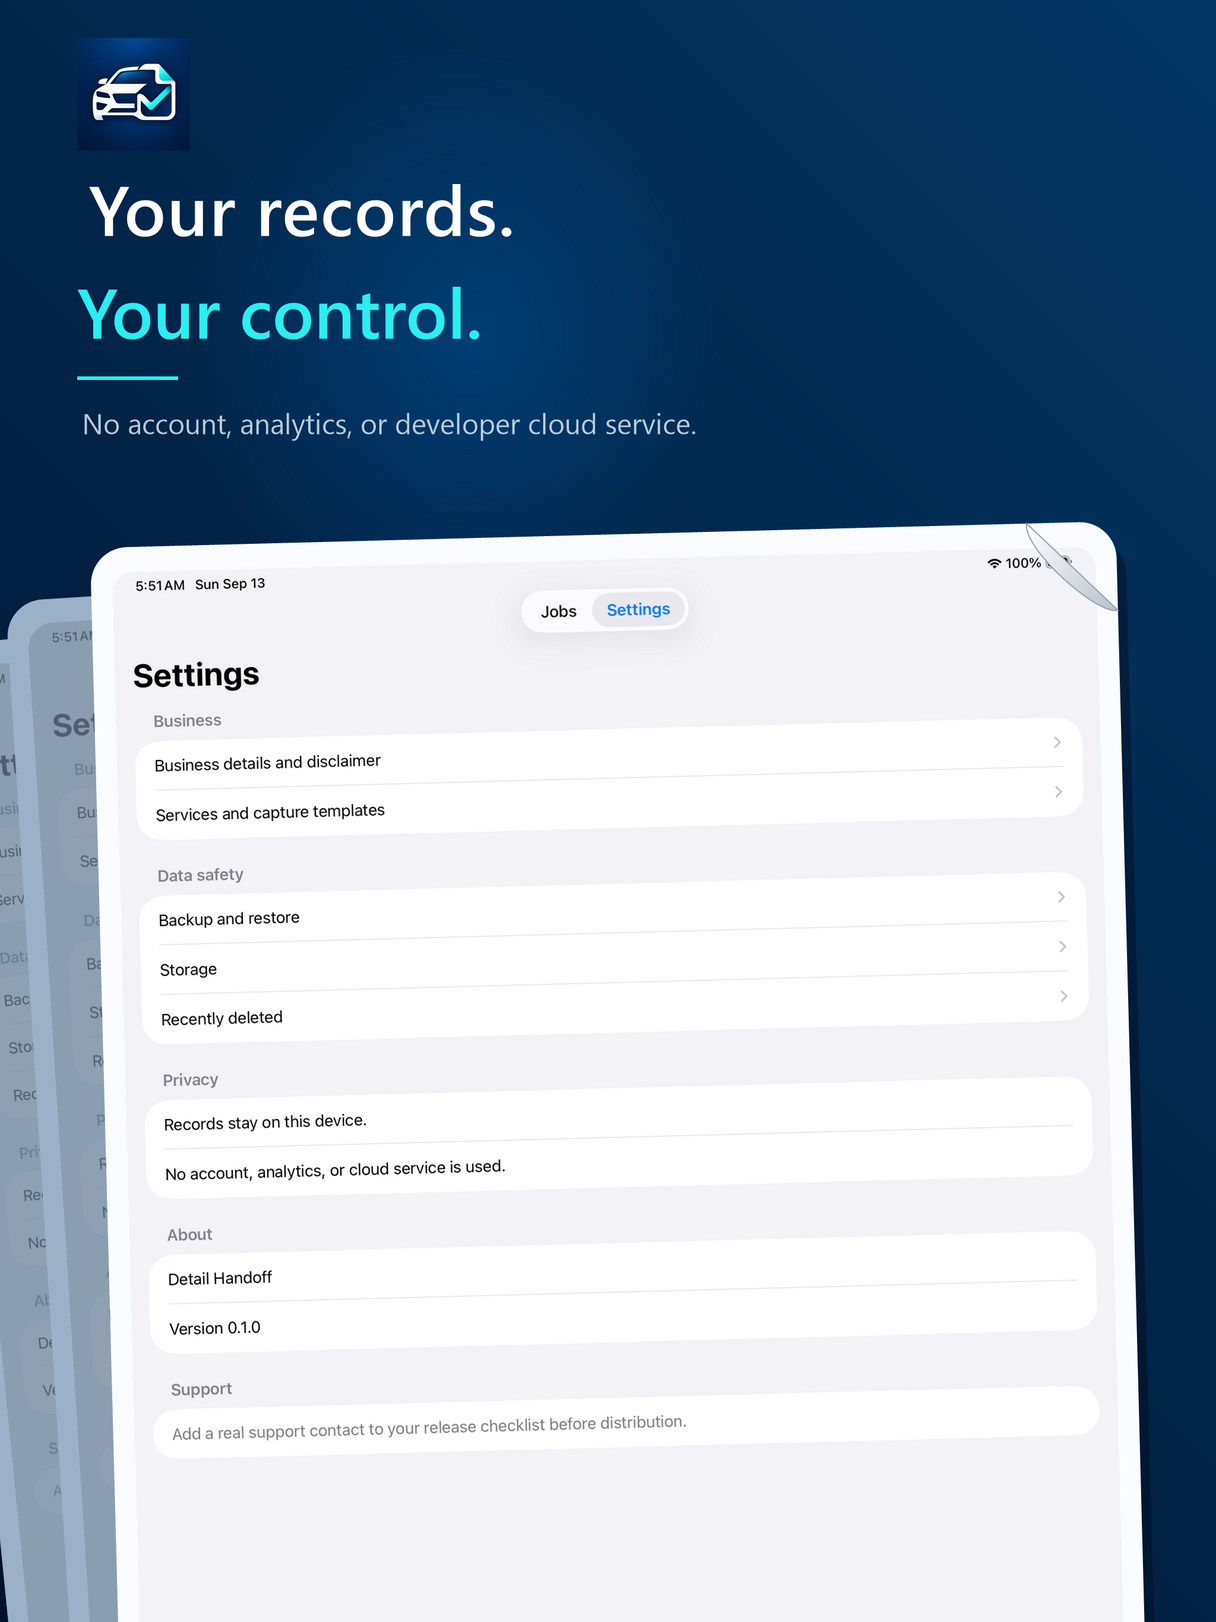
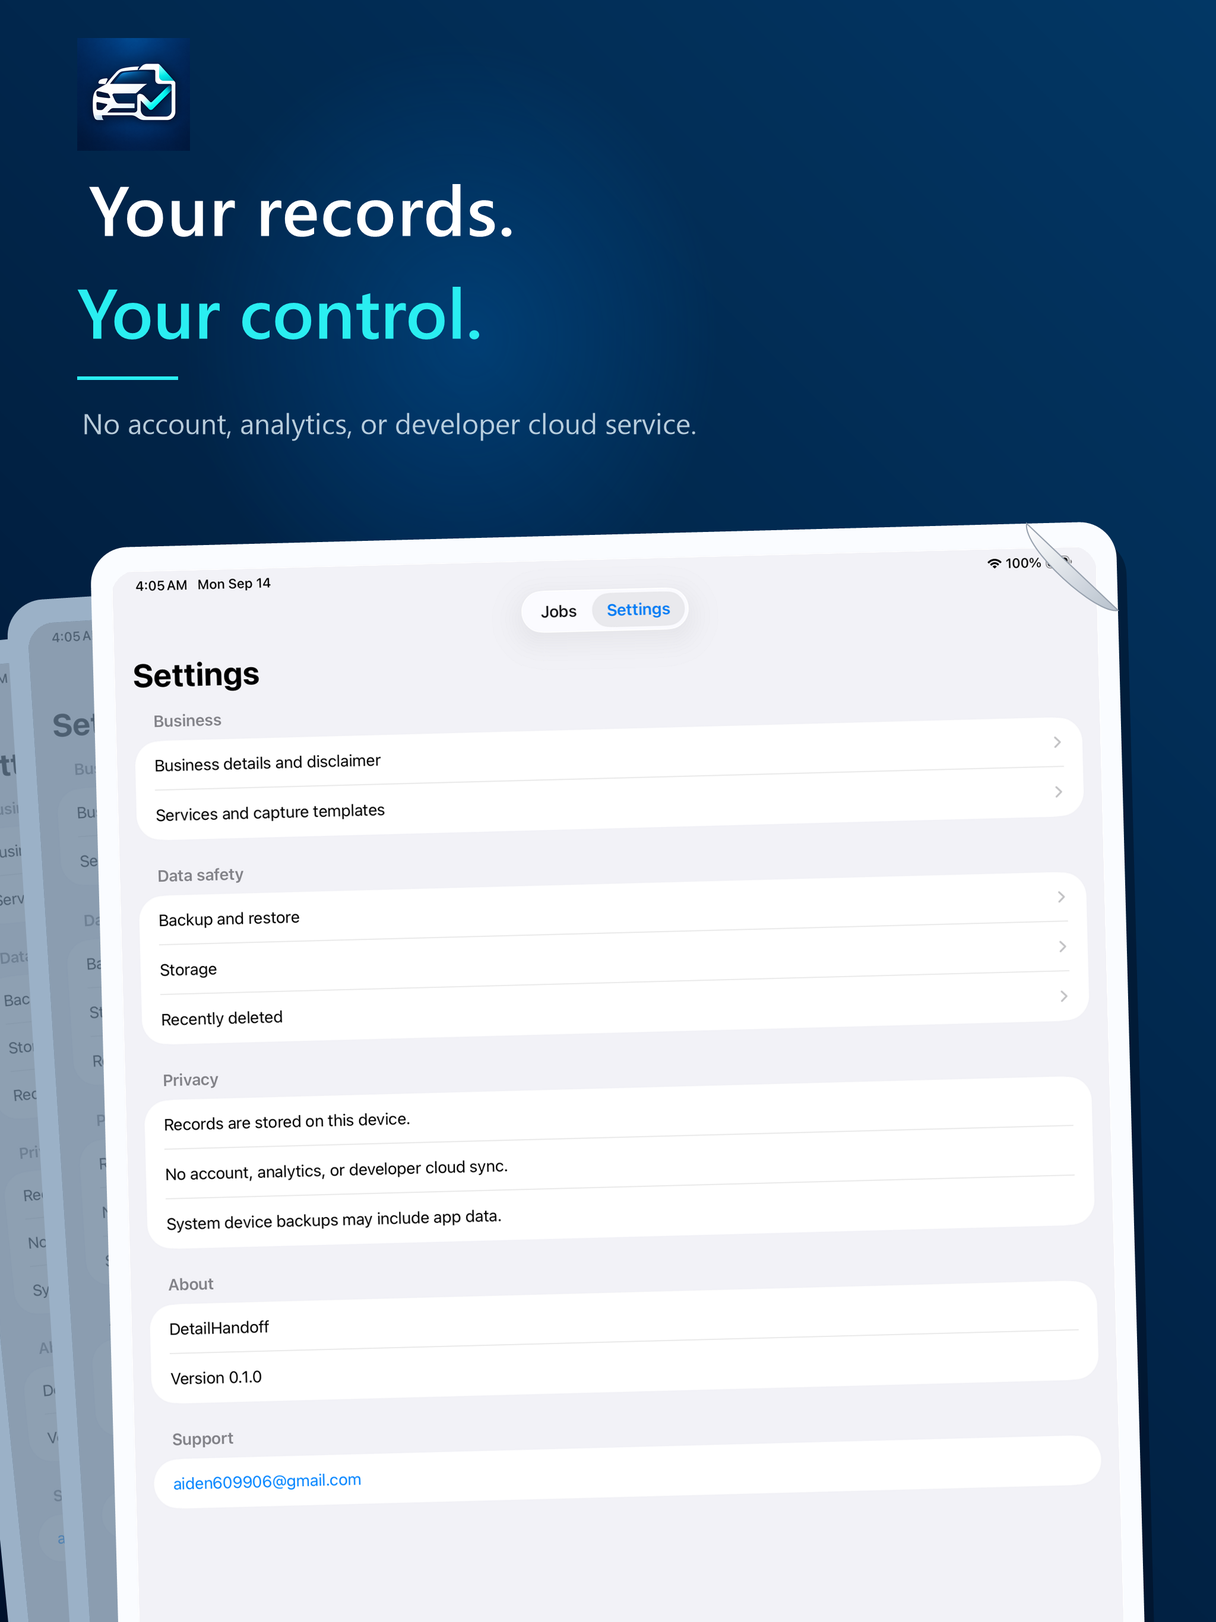
assets: refresh store screenshots from verified CI

diff --git a/docs/release/acceptance.md b/docs/release/acceptance.md
@@ -4,7 +4,7 @@ Last updated: 2026-09-14
 
 ## Release decision
 
-**Automated V1 gate passed on merged `main`; not yet App Store release-ready.** CI `34758132729` built commit `e7d8e05`, passed all 149 unit tests, and passed all 9 UI tests on both the selected iPhone and iPad simulators. The release screenshot set uses exact simulator captures from earlier green CI `34740399131`, not the latest run; see `app-store-assets/README.md` and `pre-membership-audit-2026-09-14.md`. A 1024×1024 opaque app-icon master is referenced by the asset catalog but still requires signed-archive validation. Public support and privacy pages returned HTTP 200 on 2026-09-14. The remaining blockers include physical-device/offline behavior, screenshot corrections, name clearance, signing/archive validation, account-owned metadata, TestFlight, business setup, and App Review.
+**Automated candidate gate passed; not yet App Store release-ready.** CI `34803310219` built code commit `5d901de` on the isolated fix branch, passed all 149 unit tests, and passed all 11 UI tests on both the selected iPhone and iPad simulators. The current 12 draft App Store frames were regenerated from this same run's exact captures; iPad frame 06 visibly replaces the support placeholder with the real email and distinguishes developer cloud sync from system backups. See `app-store-assets/README.md` and `pre-membership-audit-2026-09-14.md`. A 1024×1024 opaque app-icon master still requires signed-archive validation. Public support and privacy pages returned HTTP 200 on 2026-09-14. The remaining blockers include physical-device/offline behavior, final creative approval, name clearance, signing/archive validation, account-owned metadata, TestFlight, business setup, and App Review.
 
 Legend: **PASS** means the named behavior actually ran successfully in the cited run. **SOURCE** means the statement is supported by source inspection but not by the manual or external observation still named in that row. **MANUAL** is an external or physical check that automation cannot establish.
 
@@ -23,6 +23,8 @@ Legend: **PASS** means the named behavior actually ran successfully in the cited
 | [CI 34735856765](https://github.com/aiden609906-sketch/DetailHandoff/actions/runs/34735856765) | `843c46b` | **PASS on merged `main`:** app build; 149/0 unit tests; 9/0 iPhone UI tests; 9/0 iPad UI tests. Destinations: iPhone 17 Pro and iPad Pro 13-inch (M5), iOS 26.5. Test attachments uploaded but not separately inspected in this run. No physical-device or signed-archive claim. |
 | [CI 34740399131](https://github.com/aiden609906-sketch/DetailHandoff/actions/runs/34740399131) | `933cfb2` | **PASS:** source of the exact simulator UI captures used in the 12 draft App Store marketing frames. The derived PNGs are committed under `docs/release/app-store-assets/`; this is not creative approval. |
 | [CI 34758132729](https://github.com/aiden609906-sketch/DetailHandoff/actions/runs/34758132729) | `e7d8e05` | **PASS on merged `main`:** app build; 149/0 unit tests; 9/0 iPhone UI tests; 9/0 iPad UI tests. Build and both UI-test steps, attachment export, and artifact upload succeeded. No physical offline, forced-quit, or signed-archive claim. |
+| [CI 34802742503](https://github.com/aiden609906-sketch/DetailHandoff/actions/runs/34802742503) | `0dd9b87` | **Expected RED on isolated test branch:** the two new Settings UI tests each failed because the old UI lacked the precise system-backup wording and real support email. The branch-only narrowed CI configuration was restored before the green candidate run. |
+| [CI 34803310219](https://github.com/aiden609906-sketch/DetailHandoff/actions/runs/34803310219) | `5d901de` | **PASS on isolated candidate branch:** app build; 149/0 unit tests; 11/0 iPhone UI tests; 11/0 iPad UI tests, including both new Settings assertions. Both screenshot-attachment exports and artifact upload succeeded. This is source-code/fixture evidence, not physical-device or signed-archive validation. |
 
 The stable 40-photo PDF outputs and rendered QA pages remain outside product source under `.superpowers/sdd/2026-09-04-reports/ci-33848520274/` and `.superpowers/sdd/2026-09-04-reports/pdf-qa/`. They must not be relocated into the app bundle or deleted during release preparation.
 
@@ -107,11 +109,11 @@ Run `33936741128` retained earlier diagnostic images showing the failures that d
 
 CI `34560087867`, attempt 2, exported 30 attachments for each device class across setup, list, new job, capture, findings, acknowledgment, report, Draft Preview, sealed version/history, real share cancellation, Settings, backup/Files cancellation, trash/restore, startup retry, and accessibility flows. Representative native-resolution iPhone/iPad accessibility, Files exporter, and report screenshots were inspected: native full-screen geometry is present, primary actions remain horizontally readable at the tested accessibility size, and the system exporter is visibly real. These images are accepted as engineering evidence, not final App Store marketing artwork.
 
-The current 12 App Store marketing PNGs were separately reviewed on 2026-09-14; their source is CI `34740399131`. The iPad Settings/privacy frame exposes a pre-release support placeholder, and its app text oversimplifies cloud/system-backup behavior. Both device classes remain **creative approval pending**. The per-frame findings are in `pre-membership-audit-2026-09-14.md`.
+The prior 12 App Store marketing PNGs from CI `34740399131` were reviewed on 2026-09-14 and exposed a pre-release support placeholder and imprecise cloud wording in iPad frame 06. The current 12 PNGs derive from green CI `34803310219`; both frame-06 outputs were inspected at native resolution, and all 12 outputs passed opaque RGB/dimension checks. The factual frame-06 blocker is removed, but synthetic fixture imagery, iPad whitespace, and final creative approval remain open. The before/after evidence is in `pre-membership-audit-2026-09-14.md`.
 
 ## Pending release gates
 
-- Preserve the green automated baseline from CI `34758132729` when making release changes. The app build, 149 unit tests, and both 9-test UI suites completed for merged commit `e7d8e05`. The current App Store screenshots come from CI `34740399131` and are not yet approved for upload.
+- Preserve the candidate automated baseline from CI `34803310219` when making release changes. The app build, 149 unit tests, and both 11-test UI suites completed for code commit `5d901de`; the refreshed screenshots come from that run. A merged-main CI run and final creative approval are still separate checks before upload.
 - Verify the privacy manifest in the signed release archive and validate its required-reason declaration against actual runtime behavior. The built simulator resource test is green.
 - Run physical iPhone and iPad tests for camera capture, photo permission states, cancellation, force-quit/interruption, airplane mode, rotation/multitasking, large Dynamic Type/VoiceOver, low storage, 40-photo performance, PDF viewers/share destinations, Files/iCloud/external backup restore, deletion, and cleanup.
 - Establish Apple Developer membership, account owner, team, bundle identifier, certificates, profiles, signing, and release archive validation.

diff --git a/docs/release/app-store.md b/docs/release/app-store.md
@@ -4,7 +4,7 @@ Last updated: 2026-09-14
 
 ## Submission status
 
-**Do not submit this revision yet.** The merged `main` commit `e7d8e05` passed CI `34758132729`: app build, 149/0 unit tests, and 9/0 UI tests on each selected iPhone and iPad simulator. A selected 1024×1024 app-icon master, native-size draft App Store screenshot sets, a public support page, and a public privacy policy are present. The iPad privacy screenshot exposes a pre-release support placeholder; screenshot correction/creative approval, physical-device checks, name clearance, icon/archive validation, signing, TestFlight, business, and account-owned metadata gates remain open. There has been no archive signing, TestFlight distribution, App Review submission, approval, or publication.
+**Do not submit this revision yet.** Candidate code commit `5d901de` passed CI `34803310219`: app build, 149/0 unit tests, and 11/0 UI tests on each selected iPhone and iPad simulator. A selected 1024×1024 app-icon master, native-size draft App Store screenshot sets regenerated from this same CI run, a public support page, and a public privacy policy are present. The old iPad frame-06 support placeholder and imprecise cloud wording are corrected in the new capture; final screenshot creative approval, physical-device checks, name clearance, icon/archive validation, signing, TestFlight, business, and account-owned metadata gates remain open. There has been no archive signing, TestFlight distribution, App Review submission, approval, or publication.
 
 ## Commercial configuration
 
@@ -43,12 +43,12 @@ Validate the camera permission prompt on physical iPhone and iPad for first deni
 ## Required creative assets
 
 - `Assets.xcassets/AppIcon.appiconset/AppIcon-1024.png` is the selected opaque 1024×1024 master and is referenced by `Contents.json`. Dimensions, RGB opacity, JSON syntax, and visual safe margins were checked locally; Xcode asset compilation and signed-archive validation remain required.
-- Draft English screenshot sets are in `docs/release/app-store-assets/iphone` (1290×2796) and `docs/release/app-store-assets/ipad` (2048×2732). They use the selected dark-navy Product Design direction and exact simulator captures from green CI `34740399131`, without AI-rewritten app UI.
-- The six-frame story covers report creation, guided Before capture, findings, acknowledgment, sealed revision history, and local-data/privacy controls. The 2026-09-14 per-frame review is in `pre-membership-audit-2026-09-14.md`; frame 06 is blocked until the support placeholder and privacy wording are corrected, recaptured, and reviewed. Copy and final creative approval remain required before upload.
+- Draft English screenshot sets are in `docs/release/app-store-assets/iphone` (1290×2796) and `docs/release/app-store-assets/ipad` (2048×2732). They use the selected dark-navy Product Design direction and exact simulator captures from green CI `34803310219`, without AI-rewritten app UI.
+- The six-frame story covers report creation, guided Before capture, findings, acknowledgment, sealed revision history, and local-data/privacy controls. The 2026-09-14 initial per-frame review and frame-06 remediation are in `pre-membership-audit-2026-09-14.md`. Final creative approval remains required before upload, including a decision on visibly synthetic fixture imagery and wide iPad whitespace.
 - Review every image at native resolution for cropping, Dynamic Type overflow, private information, placeholder data, misleading status, and device chrome.
 - Optional promotional art, preview video, and localization are not required by this handoff and have not been produced.
 
-The 27 PNGs from CI `33936741128` remain failure diagnostics, not store assets. CI `34740399131` is the source of the current store set. The 12 derived PNGs were reviewed at native resolution on 2026-09-14; that review found an upload blocker in the iPad frame 06 and did not grant final creative approval.
+The 27 PNGs from CI `33936741128` remain failure diagnostics, not store assets. CI `34740399131` is the superseded screenshot source; CI `34803310219` is the source of the current store set. Both current frame-06 outputs were inspected at native resolution and all 12 current PNGs passed dimension/opaque-RGB checks. The previous iPad frame-06 factual blocker is resolved; no final creative approval is claimed.
 
 ## Pre-membership checks (2026-09-14)
 
@@ -60,7 +60,7 @@ The 27 PNGs from CI `33936741128` remain failure diagnostics, not store assets. 
 
 ## Metadata and account checklist
 
-- [x] Obtain a green macOS build, all 149 unit tests, and all 9 UI tests on both iPhone and iPad (CI `34758132729`, merged `main` commit `e7d8e05`). The current 12 store PNGs derive from CI `34740399131` and have a separate creative review.
+- [x] Obtain a green macOS build, all 149 unit tests, and all 11 UI tests on both iPhone and iPad (candidate CI `34803310219`, code commit `5d901de`). The current 12 store PNGs derive from the same run; merged-main CI is a separate final check.
 - [ ] Verify the archived `PrivacyInfo.xcprivacy` declares DiskSpace reason `E174.1` for the actual capture/import storage check, without tracking or collected-data claims beyond the implementation. The built simulator resource test has passed.
 - [x] Pass the Phase 1 on-disk migration fixture without losing baseline records (included in the 149-test run).
 - [ ] Complete physical iPhone and iPad camera, permissions, interruption, offline, accessibility, performance, Files/share, backup/restore, deletion, and low-storage checks.
@@ -70,7 +70,7 @@ The 27 PNGs from CI `33936741128` remain failure diagnostics, not store assets. 
 - [x] Publish the privacy policy URL: `https://detailhandoff-support.aiden609906.chatgpt.site/privacy/`.
 - [ ] Complete category, age rating, copyright, seller/developer name, SKU, version/release notes, territories, paid-app price, App Store privacy responses, accessibility information, and export-compliance answers.
 - [x] Prepare length-validated U.S. English product-page copy and truthful App Review notes for the current binary.
-- [ ] Validate the selected 1024px icon and all asset warnings in the release archive; correct the frame-06 support/privacy issue, recapture both device classes, obtain creative approval, then upload approved iPhone/iPad screenshots.
+- [ ] Validate the selected 1024px icon and all asset warnings in the release archive; obtain final creative approval for the recaptured iPhone/iPad screenshots, then upload approved assets. The frame-06 factual correction is complete, but synthetic imagery and iPad whitespace remain creative review points.
 - [ ] Add truthful reviewer notes describing local data, camera/photo selection, synthetic review data, backup/restore, and any non-obvious navigation. No demo account is required by current source because there is no login.
 - [ ] Accept paid-app and other business agreements; complete tax and banking information.
 - [ ] Recruit TestFlight users, distribute a signed build, capture feedback, fix release blockers, and retest. No TestFlight activity is claimed.

diff --git a/docs/release/pre-membership-audit-2026-09-14.md b/docs/release/pre-membership-audit-2026-09-14.md
@@ -1,6 +1,6 @@
 # Pre-membership release audit — 2026-09-14
 
-This is a release-preparation evidence review, not App Store submission approval or legal advice. No Apple Developer membership is required for the checks recorded here.
+This is a release-preparation evidence review, not App Store submission approval or legal advice. No Apple Developer membership is required for the checks recorded here. The per-image table below records the **initial** screenshot set from CI `34740399131`; see the remediation follow-up below for the current set.
 
 ## Latest automated evidence and image provenance
 
@@ -39,6 +39,14 @@ The marketing frame's `No account, analytics, or developer cloud service` is mor
 - [Support](https://detailhandoff-support.aiden609906.chatgpt.site/) and [Privacy Policy](https://detailhandoff-support.aiden609906.chatgpt.site/privacy/) each returned HTTP 200 on 2026-09-14 and included `aiden609906@gmail.com`. Both mention local records, user-initiated sharing/backup, and the 30-day Recently Deleted window; the privacy page also distinguishes system iCloud backup from developer cloud sync. Availability is a point-in-time check, not a hosting guarantee.
 - `privacy.md` and the published policy are directionally consistent on local storage, export/share, backup destination, system backup, tracking/analytics, and retention. The app's Settings wording and placeholder Support text are the material inconsistencies to correct. Final App Store privacy labels still require review against the signed binary and physical network observation.
 
+## Frame-06 remediation follow-up — 2026-09-14
+
+- Source cause: `SettingsView.swift` hard-coded a pre-release Support placeholder, omitted the system-backup caveat, used `cloud service` without distinguishing developer sync, and displayed `Detail Handoff` with inconsistent spacing. The screenshot renderer reproduced that app UI faithfully; editing the PNG alone would not fix the app.
+- RED evidence: isolated [CI 34802742503](https://github.com/aiden609906-sketch/DetailHandoff/actions/runs/34802742503) ran the two new Settings UI tests against the old app; both failed for the missing user-visible backup/sync wording and support email. The temporary narrowed workflow configuration was restored before the fix run.
+- GREEN evidence: [CI 34803310219](https://github.com/aiden609906-sketch/DetailHandoff/actions/runs/34803310219), code commit `5d901de`, passed the app build, 149/0 unit tests, and 11/0 UI tests on each iPhone and iPad, including both new Settings tests. The run exported and uploaded fresh screenshot attachments for both devices.
+- All 12 marketing PNGs were regenerated from that green run; all are opaque RGB at the required native dimensions. Both refreshed frame-06 images were inspected at native resolution. The iPad image visibly shows `System device backups may include app data.`, `DetailHandoff`, and the real `aiden609906@gmail.com` link, with no old placeholder or absolute no-cloud claim. The iPhone crop ends after the first Privacy row; it does not display the backup caveat or support email, but its marketing subtitle accurately limits the claim to a developer cloud service.
+- The old frame-06 factual blocker is **resolved**. This does not approve the whole creative set: the synthetic fixture imagery and iPad whitespace observations from the initial review still require a final marketing decision. Offline/force-quit, name clearance, signing, and App Store account gates are unchanged.
+
 ## Release decision
 
-**Do not upload the current screenshots or submit the app.** Re-test offline/relaunch on real devices, correct and recapture Settings, complete name clearance, and keep the public pages reachable. Signing, TestFlight, App Store Connect business/configuration, and App Review remain separate gates.
+**Do not upload without final creative approval or submit the app.** The Settings copy and frame-06 recapture are complete, but synthetic fixture imagery and wide iPad whitespace need a release-owner decision. Re-test offline/relaunch on real devices, complete name clearance, and keep the public pages reachable. Signing, TestFlight, App Store Connect business/configuration, and App Review remain separate gates.

diff --git a/docs/release/privacy.md b/docs/release/privacy.md
@@ -63,4 +63,4 @@ The app uses its sandboxed container and validates internal/export paths and fil
 
 Before distribution, confirm file data-protection behavior on locked physical devices, system-backup behavior, network observation, permission copy, retention language, and App Store privacy labels. The public privacy policy is prepared at `https://detailhandoff-support.aiden609906.chatgpt.site/privacy/`, with support contact `aiden609906@gmail.com`; release QA must confirm the deployed page remains publicly reachable before App Store submission.
 
-On 2026-09-14 the support and privacy URLs both returned HTTP 200, and the published text was checked against the local-storage, sharing, backup, system-backup, analytics, and 30-day-deletion statements above. The app's current Settings screen still says `No account, analytics, or cloud service is used.` without distinguishing developer cloud services from possible operating-system backups, and its Support section contains a pre-release placeholder instead of the published contact. Correct both in the app and recapture the affected App Store screenshots before submission. This point-in-time content check is not final privacy-label or signed-binary verification; see `pre-membership-audit-2026-09-14.md`.
+On 2026-09-14 the support and privacy URLs both returned HTTP 200, and the published text was checked against the local-storage, sharing, backup, system-backup, analytics, and 30-day-deletion statements above. That review initially found an overly broad cloud statement and pre-release Support placeholder in Settings. Code commit `5d901de` replaced them with a developer-cloud-sync distinction, an explicit system-device-backup caveat, and the real support email. Both new Settings UI tests passed on iPhone and iPad in CI `34803310219`, and the affected App Store screenshots were regenerated from that run. This point-in-time content and simulator check is not final privacy-label, physical network, system-backup, or signed-binary verification; see `pre-membership-audit-2026-09-14.md`.

diff --git a/docs/release/app-store-assets/README.md b/docs/release/app-store-assets/README.md
@@ -1,6 +1,6 @@
 # App Store screenshot set
 
-These English-first draft screenshots implement the selected dark-navy Product Design direction with exact UI captures from green CI run `34740399131`.
+These English-first draft screenshots implement the selected dark-navy Product Design direction with exact UI captures from green CI run `34803310219` (code commit `5d901de`). All 12 frames were regenerated from that run's iPhone and iPad attachment manifests on 2026-09-14. The previous set came from CI `34740399131` and is superseded.
 
 ## Upload order
 
@@ -17,6 +17,8 @@ These English-first draft screenshots implement the selected dark-navy Product D
 - `ipad`: 2048×2732 PNG, opaque RGB
 
 Both sizes are accepted by the current App Store Connect screenshot specification. Recheck Apple's specification immediately before upload because supported device classes can change.
+
+The refreshed iPad frame 06 visibly includes the system-backup caveat, `DetailHandoff`, and the real support email; the old support placeholder is absent. The iPhone frame 06 crops below the first Privacy row, so its app capture does not show the backup caveat or email; its marketing subtitle explicitly limits the no-cloud statement to a developer cloud service. Final creative approval remains separate from this factual correction.
 
 ## Regeneration
 
